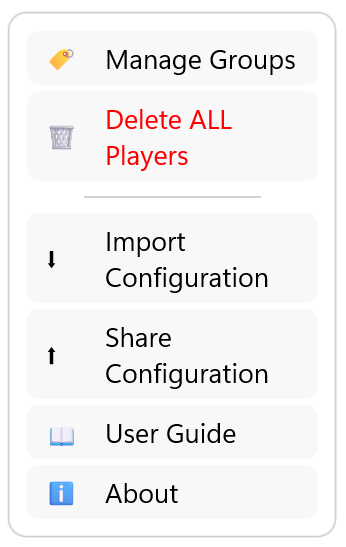
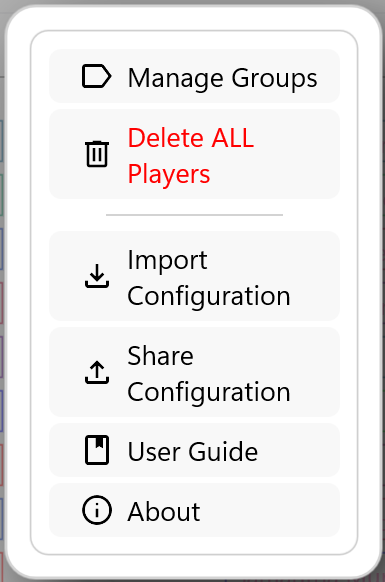
Refresh Players Options menu help image

diff --git a/help/08-options.md b/help/08-options.md
@@ -11,7 +11,7 @@ Select **Options** (⋮) on the tab you want to manage. The examples show the di
   </figure>
   <figure>
     <figcaption>Players</figcaption>
-    <img src="images/options-menu-players.png" alt="Players menu with Manage Groups and Delete All Players">
+    <img src="images/options-menu-players.png?v=4.1.1" alt="Players Options menu with Manage Groups, Delete ALL Players, Import Configuration, Share Configuration, User Guide and About">
   </figure>
   <figure>
     <figcaption>Sessions</figcaption>
